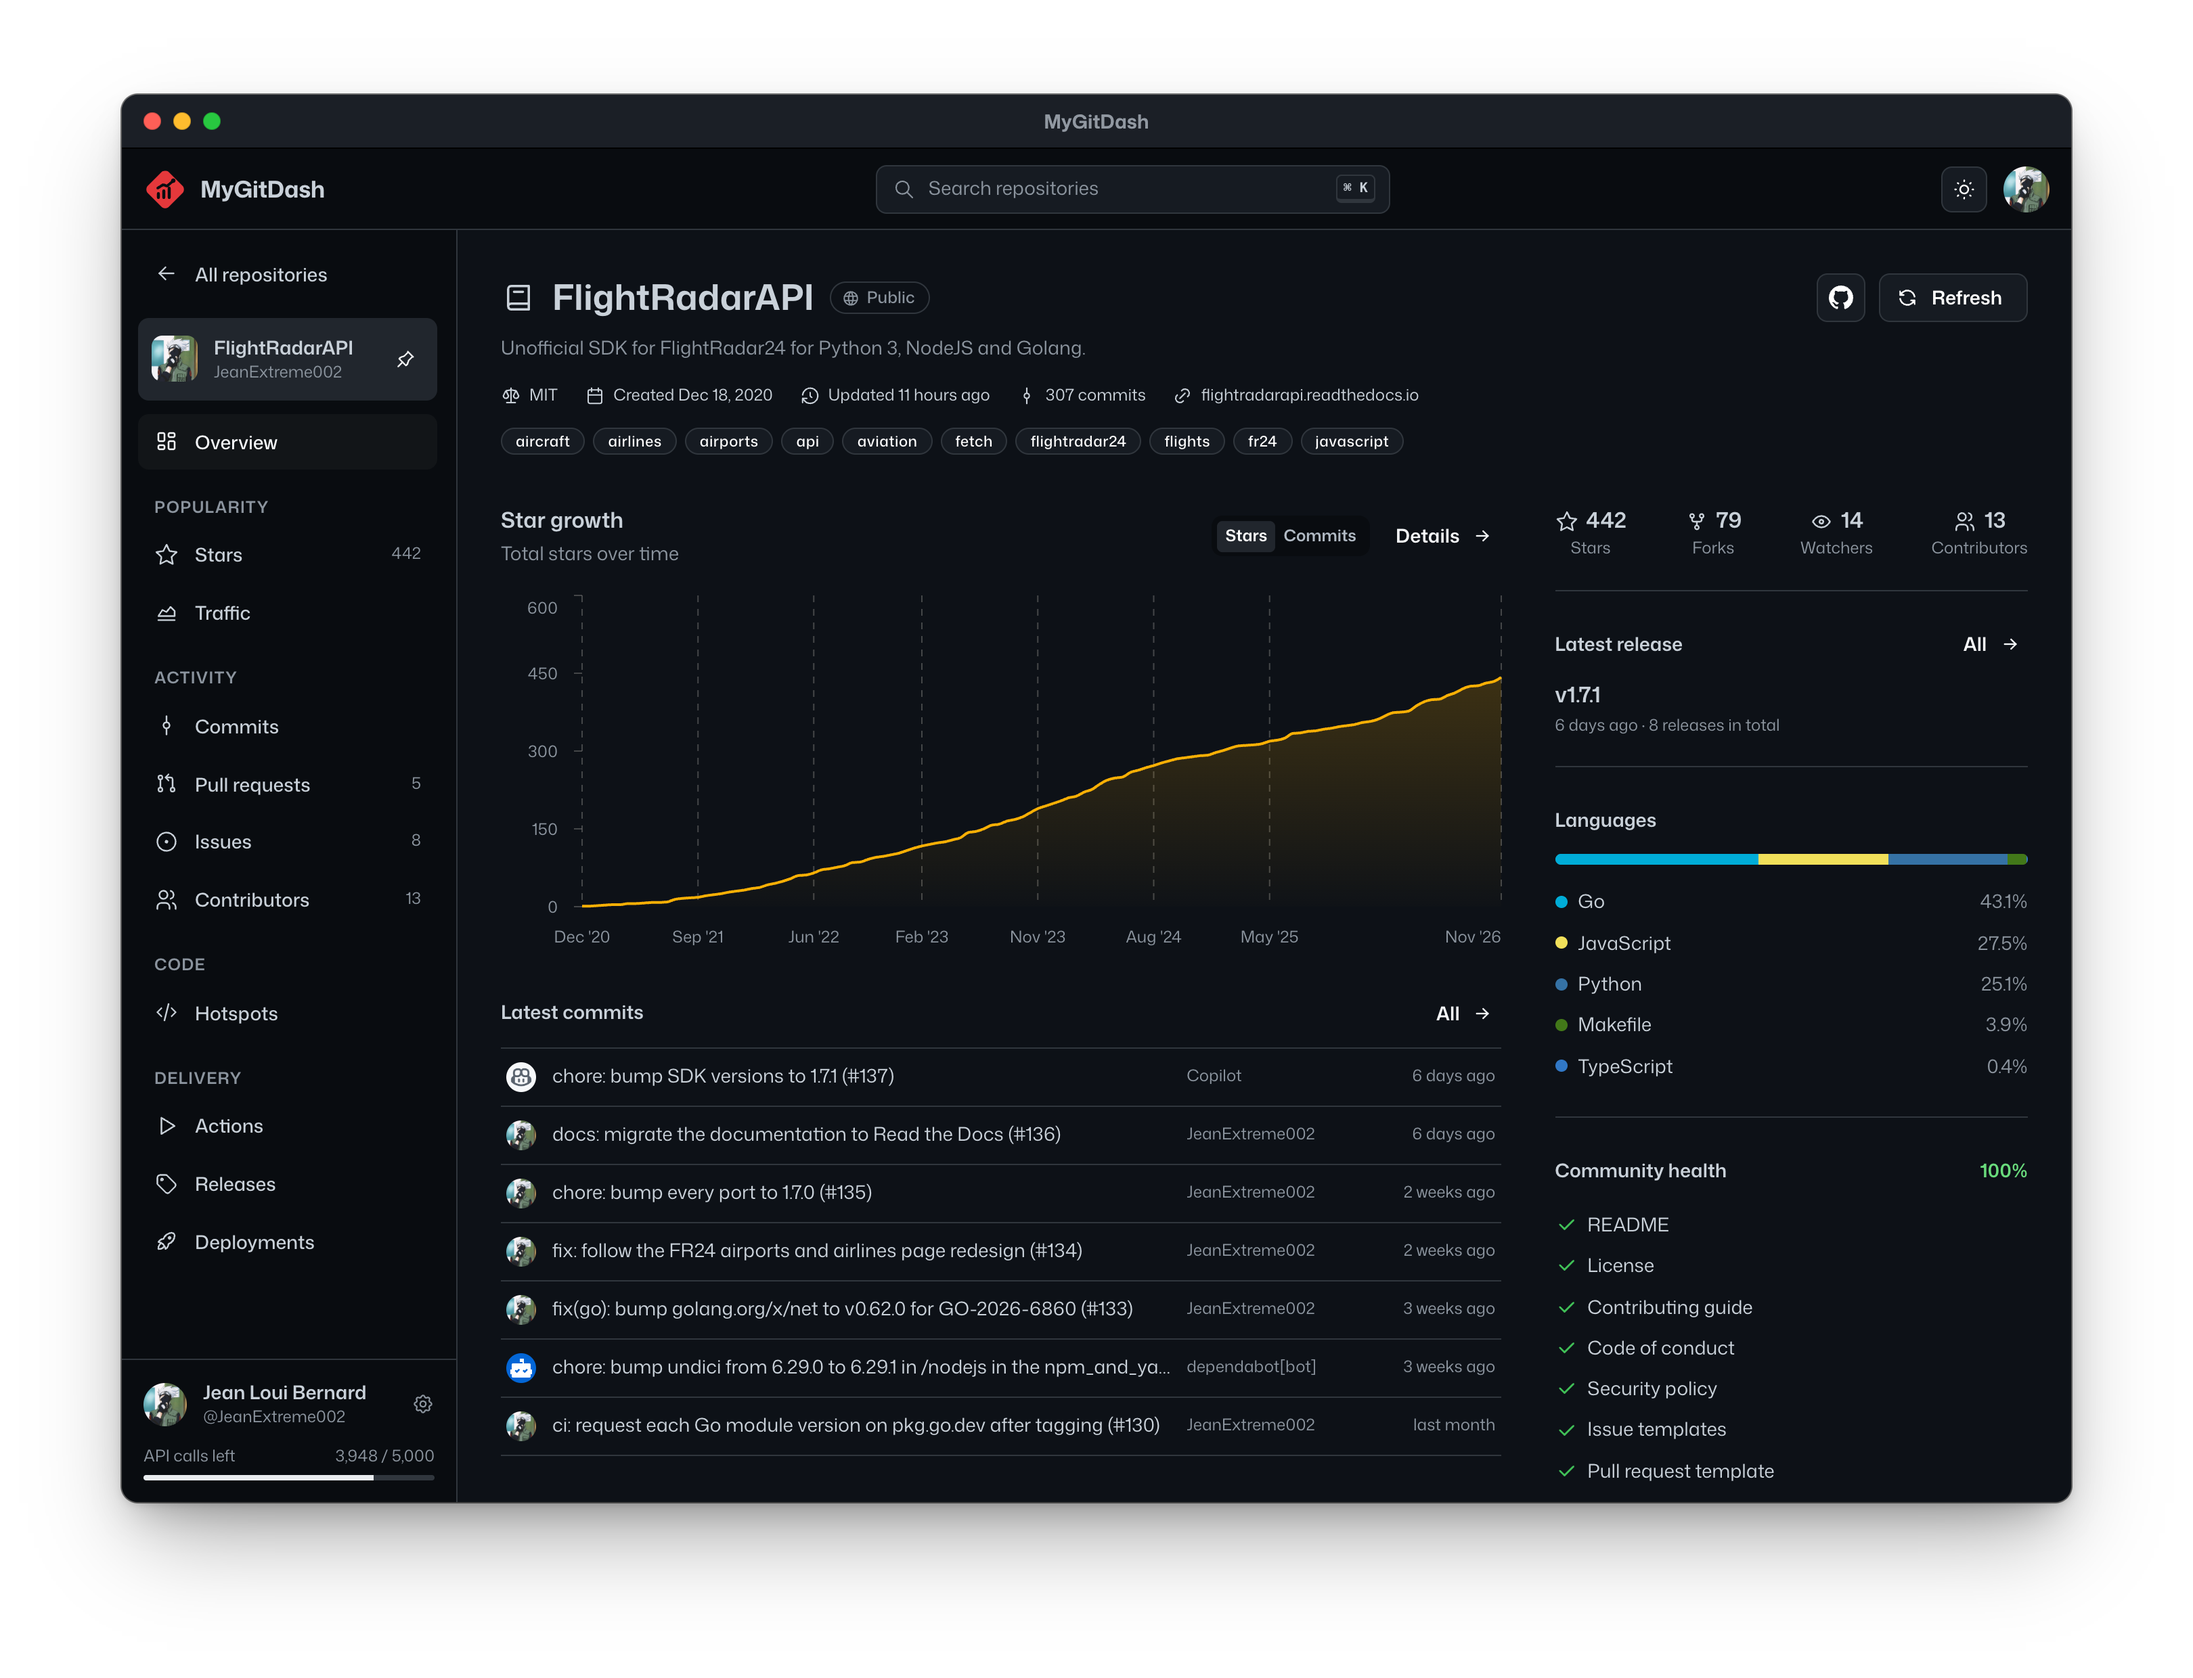
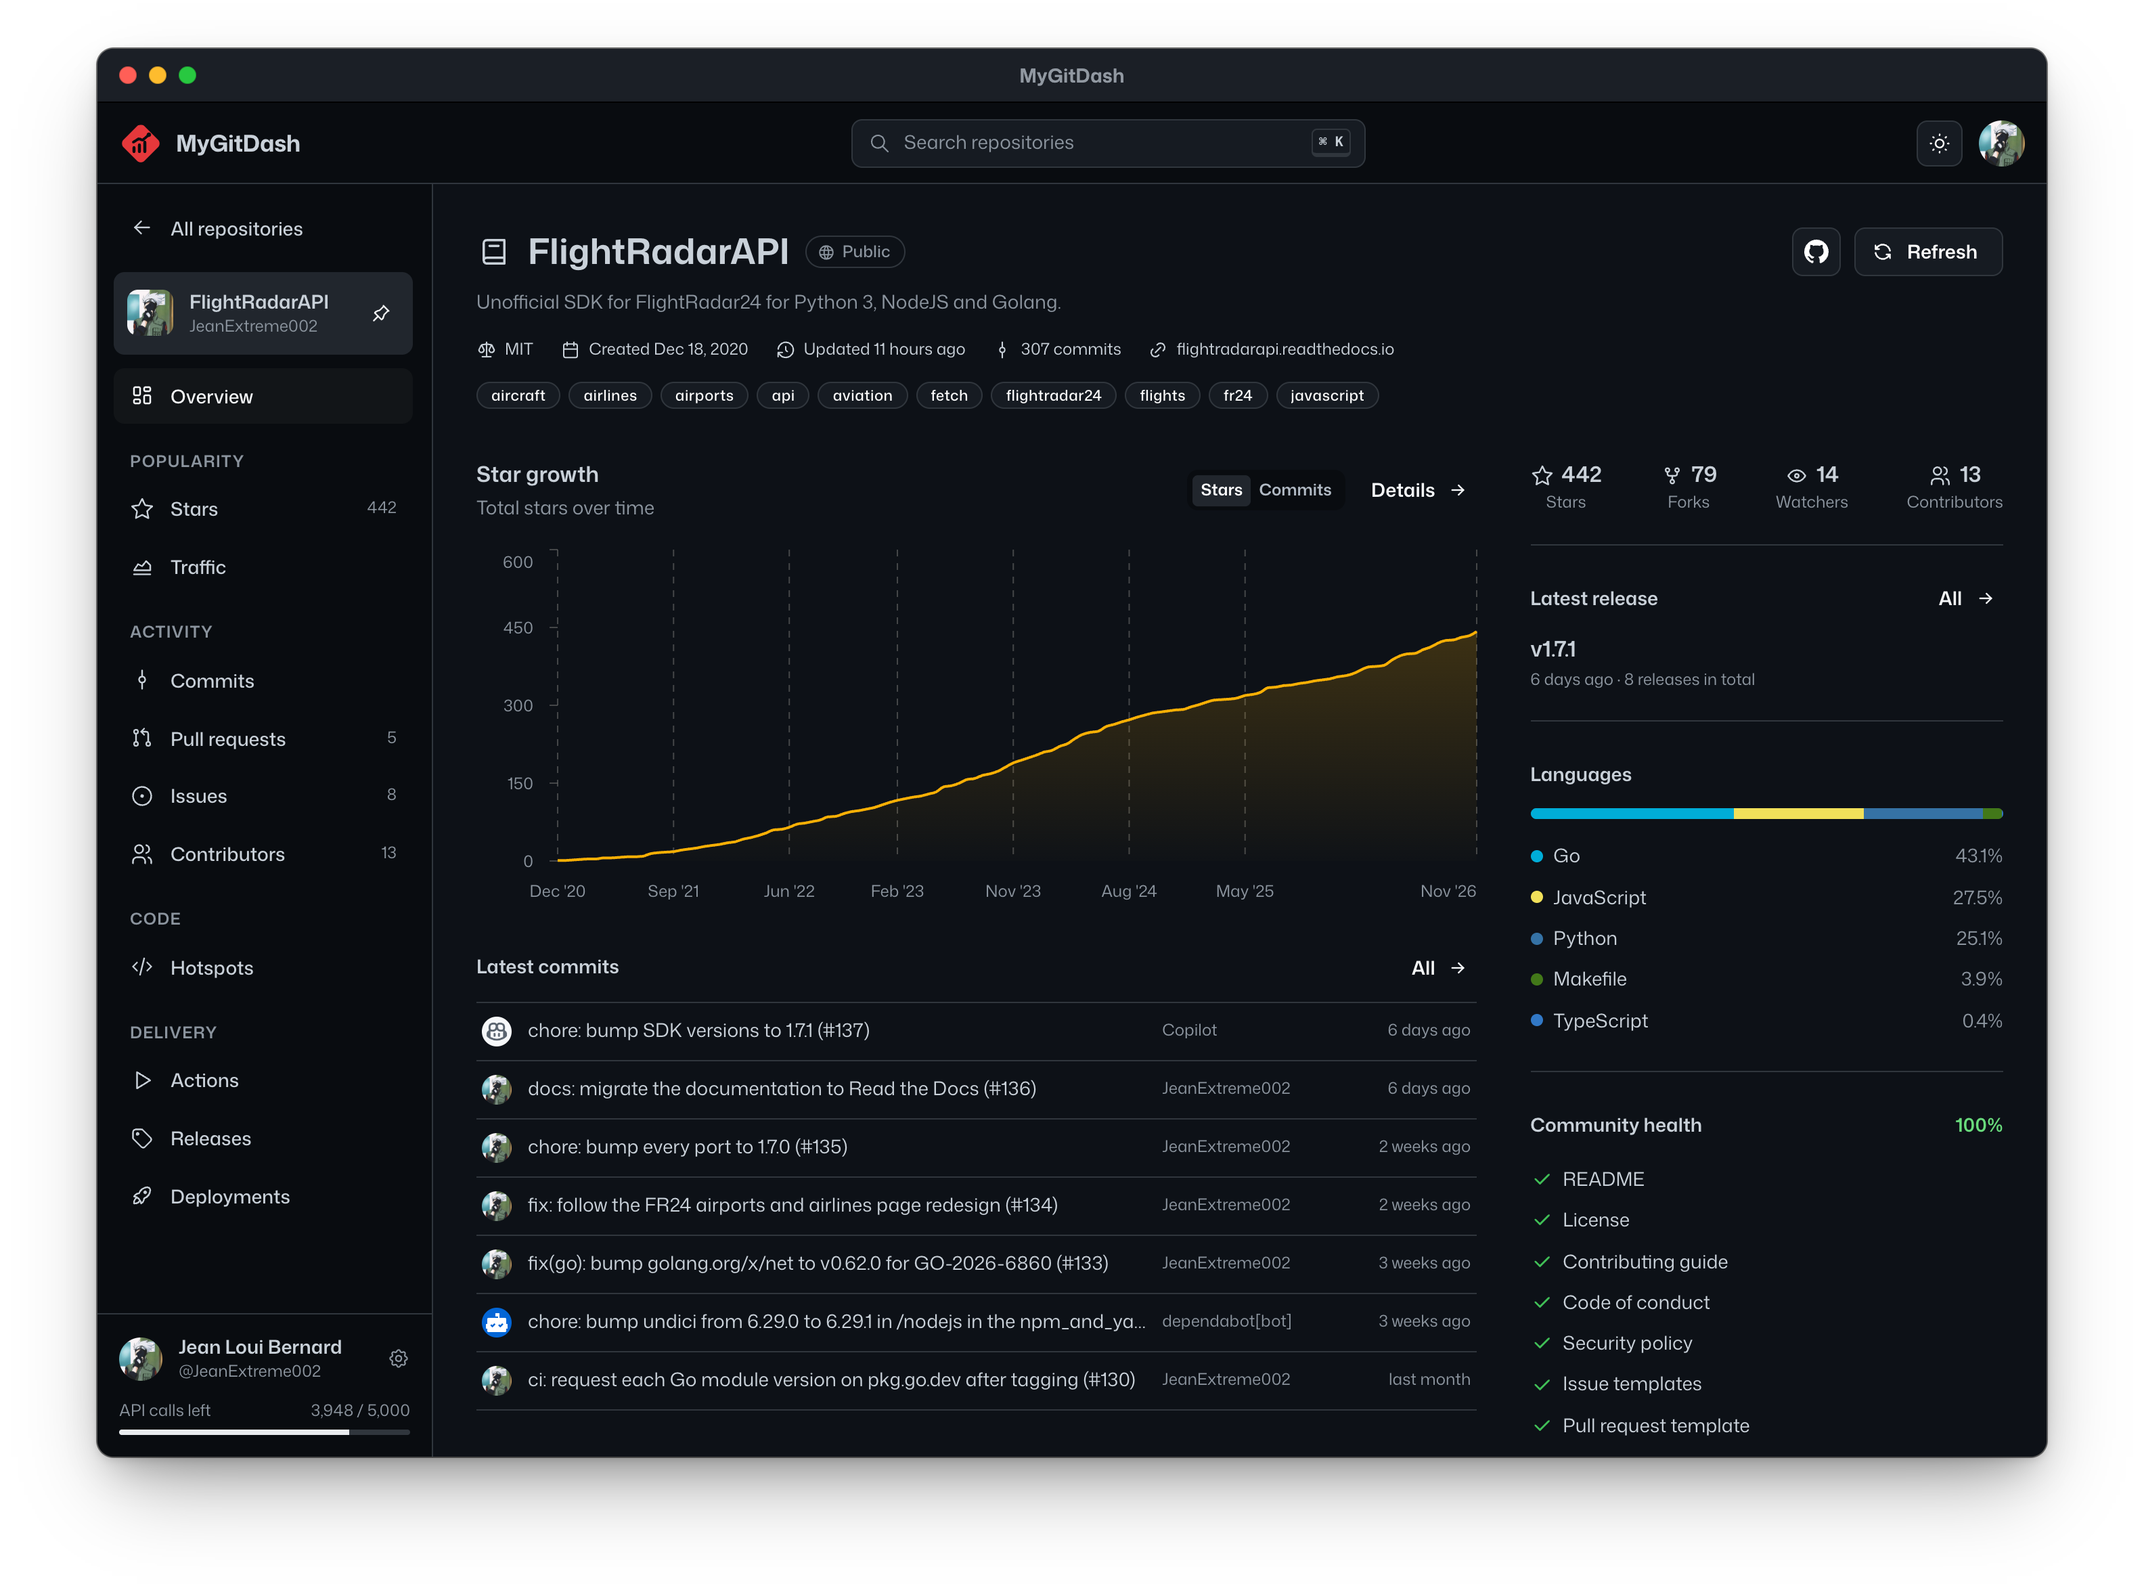
docs: trim the space between the screenshot and the intro

diff --git a/README.md b/README.md
@@ -23,8 +23,6 @@
 
 </div>
 
-<br>
-
 GitHub spreads your project's numbers across a dozen tabs and deletes traffic after 14 days. **MyGitDash brings them together in one fast dashboard**, and keeps the history GitHub throws away.
 
 ## Quick start
